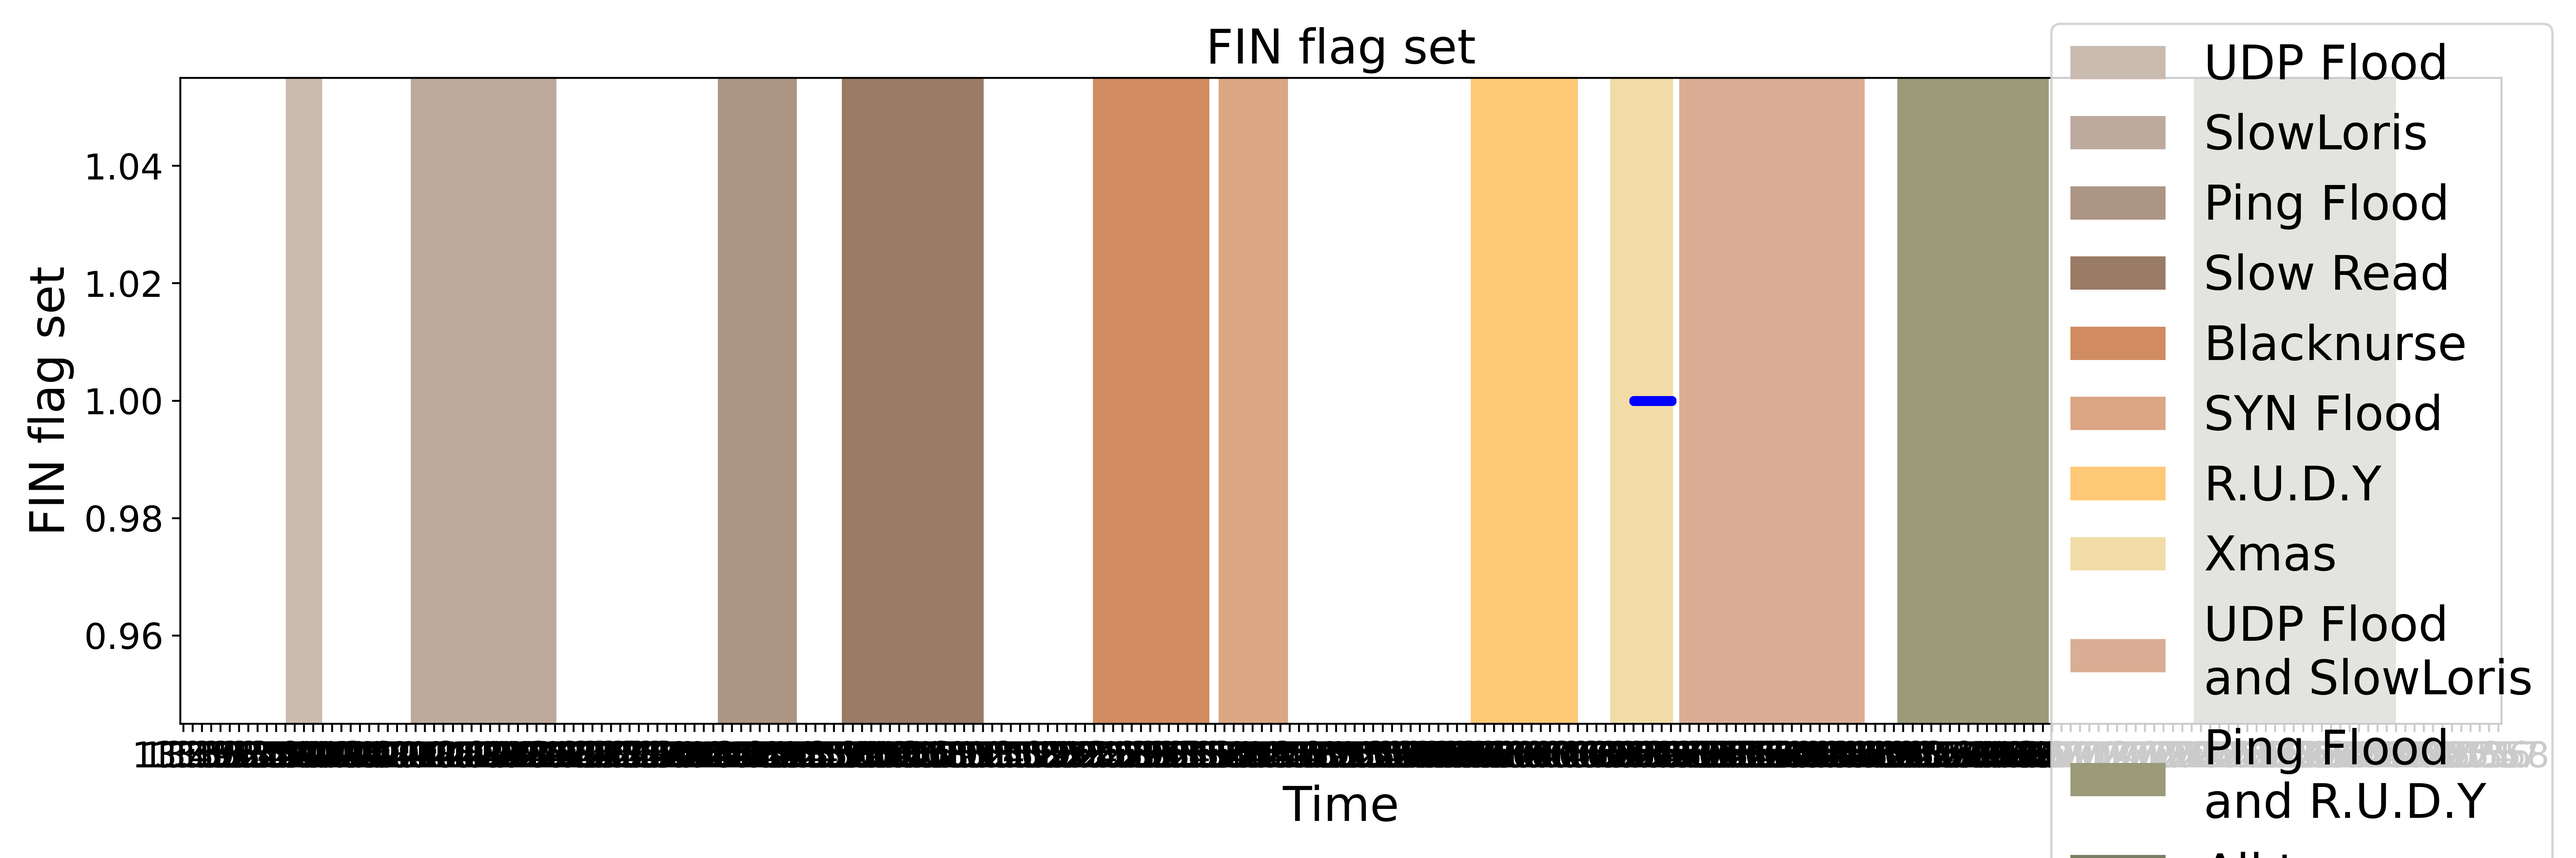
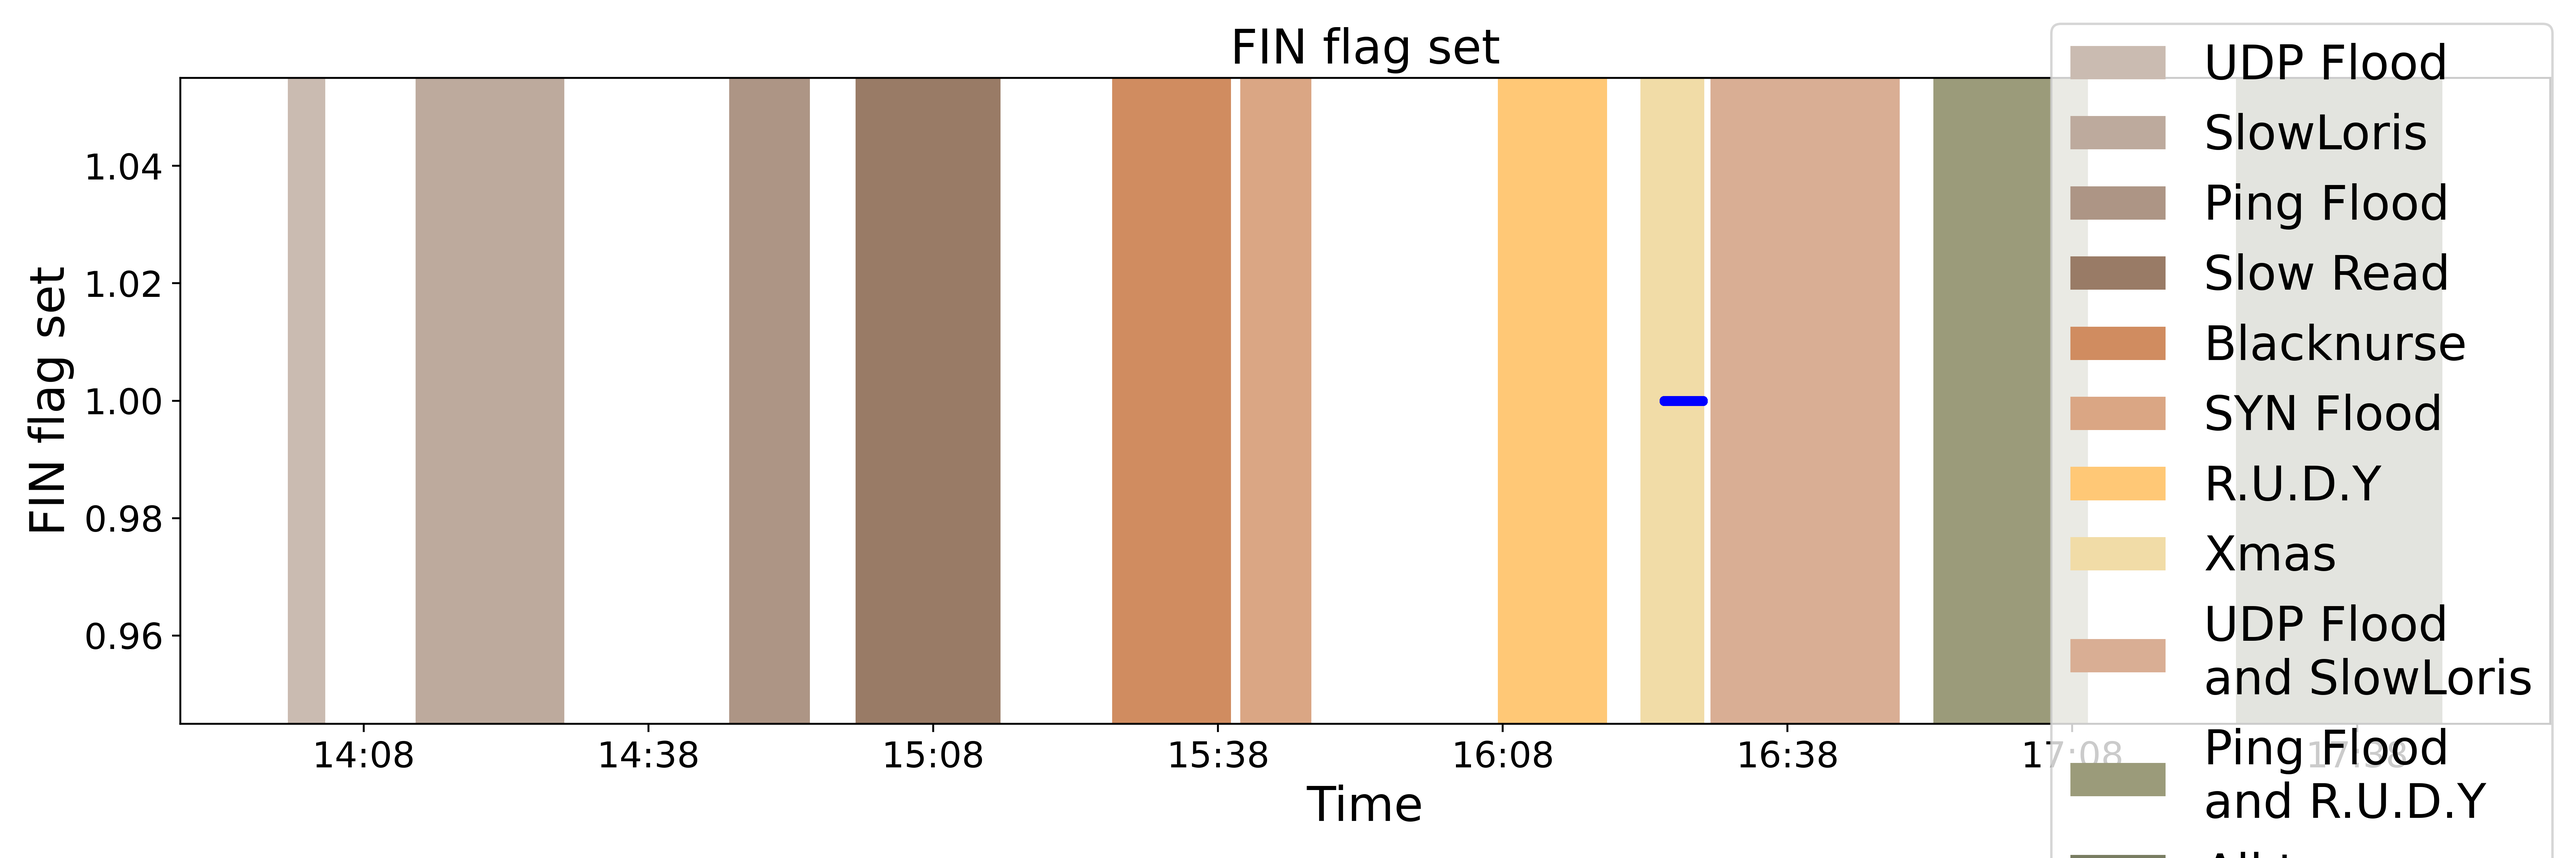
new plots

Changed region(s): [[0.0624, 0.0312, 0.9984, 0.9672]]

diff --git a/Correlation/Aggregation.py b/Correlation/Aggregation.py
@@ -80,10 +80,12 @@ class Aggregation:
 
     def addAlertToGraph(self, gateway, interval, alert, alertDB):
         if alertDB == 0:
+            newAlert = dict(alert)
+            del newAlert["Packet_size_distribution"]
             if interval in self.getTimes(gateway, self.alertDB):
-                self.alertDB[gateway][interval].append(alert)
+                self.alertDB[gateway][interval].append(newAlert)
             else:
-                self.alertDB[gateway][interval] = [alert]
+                self.alertDB[gateway][interval] = [newAlert]
         elif alertDB == 1:
             if interval in self.getTimes(gateway, self.alertDBDistribution):
                 self.alertDBDistribution[gateway][interval].append(alert)
@@ -132,7 +134,7 @@ class Aggregation:
             times = list(self.getTimes(gateway, self.alertDB).keys())
             for time in times:
                 #Remove old alerts from the data structure
-                if time.left < stime - timedelta(minutes = 10):
+                if time.left < stime - timedelta(minutes = 5):
                     removeTimes.append(time)
                     continue
                 
@@ -206,7 +208,7 @@ class Aggregation:
         for time in removeTimes:
             self.removeTimestampFromGraph(gateway, time, 1)
 
-        print("\nOverlappingAlerts")
+        print("\nOverlappingAlerts for gateway", gateway)
         print(overlappingAlerts)
         if overlappingAlerts > 1:
 

diff --git a/Correlation/Ranking.py b/Correlation/Ranking.py
@@ -208,7 +208,7 @@ class Ranking:
             elif self.highRankingFalsePositives == 0:
                 precision = 1
             else:
-                precision = self.highRankingTruePositives/self.highRankingFalsePositives 
+                precision = self.highRankingTruePositives/(self.highRankingTruePositives + self.highRankingFalsePositives)
             alertsFile.write("NumberOfAlertsIn,NumberOfRankings,TPin,FPin,TPout,FPout,highRankingPrecision")
             alertsFile.write("\n" + str(self.alertCounter) +"," + str(self.numberOfRankings) + "," +str(self.truePositivesIn) + ","+ str(self.falsePositivesIn)+"," + str(self.truePositivesOut) + ","+ str(self.falsePositivesOut) + "," + str(precision))
             alertsFile.close()

diff --git a/Correlation/CorrelationAttackTypes.py b/Correlation/CorrelationAttackTypes.py
@@ -132,7 +132,7 @@ class Correlation_Attack_types:
                 
                 self.mqtt_client.publish(self.output, json.dumps(message))
                 print("\nPublished message to topic", self.output)
-            elif overlappingAlerts >=3 and attackType != "SYN Flood" and attackType != "Flooding":
+            elif overlappingAlerts >=2 and attackType != "SYN Flood" and attackType != "Flooding":
                 message = { 'sTime': stime.strftime("%Y-%m-%dT%H:%M:%SZ"),
                             'eTime': etime.strftime("%Y-%m-%dT%H:%M:%SZ"),
                             'Gateways': list(set(gateways)),

diff --git a/NetFlow/Threshold/Plotting/plotXmas.py b/NetFlow/Threshold/Plotting/plotXmas.py
@@ -94,7 +94,7 @@ def plotXmas(systemId, attackDate):
     axs.scatter(timeAxis ,nonAttackValues, color="black", s=30, label="Normal flows")
     axs.scatter(timeAxis, attackValues, color = "blue", s=10, label="Attack flows")
     axs.xaxis.set(
-        major_locator=mdates.MinuteLocator(interval=1),
+        major_locator=mdates.MinuteLocator(interval=30),
         major_formatter=mdates.DateFormatter("%H:%M"),
     )
     axs.set_title("FIN flag set", fontsize=20)

diff --git a/HelperFunctions/SimulateRealTime.py b/HelperFunctions/SimulateRealTime.py
@@ -8,7 +8,7 @@ def simulateRealTime(timeNow, stime, attackDate):
     attackMonth = int(attackDate[1])
     attackDay = int(attackDate[0])
     
-    movedTime = stime + timedelta(hours=5)
+    movedTime = stime - timedelta(minutes=30)
     if movedTime > timeNow.replace(year=attackYear, month=attackMonth, day=attackDay):
         duration = math.ceil((movedTime - timeNow.replace(year=attackYear, month=attackMonth, day=attackDay)).total_seconds())
     else:
